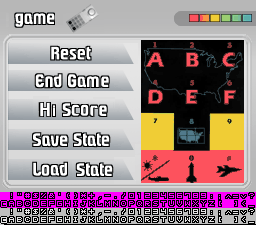
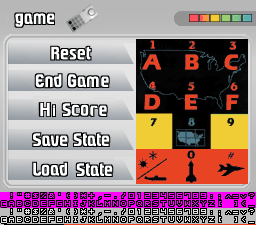
9.8a with Blackjack overlay added and improved Wargames overlay.

Changed region(s): [[0.5312, 0.1556, 0.9688, 0.84], [0.25, 0.9956, 1.0, 1.0]]

diff --git a/arm9/source/colecoDS.c b/arm9/source/colecoDS.c
@@ -55,6 +55,7 @@
 #include "quest.h"
 #include "hal2010.h"
 #include "shuttle.h"
+#include "blackjack.h"
 #include "utopia.h"
 #include "cvision.h"
 #include "fdc.h"
@@ -91,7 +92,7 @@ u8 RAM_Memory[0x10000]                ALIGN(32) = {0};        // RAM up to 128K 
 u8 BIOS_Memory[0x10000]               ALIGN(32) = {0};        // To hold our BIOS and related OS memory (64K as the BIOS  for various machines ends up in different spots)
 u8 SRAM_Memory[0x4000]                ALIGN(32) = {0};        // SRAM up to 16K for the few carts which use it (e.g. MSX Deep Dungeon II, Hydlide II, etc)
 
-u8 *DSI_RAM_Buffer = 0; // Used as a large 1MB buffer for ADAM expanded RAM. May have other uses in the future.
+u8 *DSI_RAM_Buffer = 0; // Used as a large 2MB buffer for ADAM expanded RAM. May have other uses in the future.
 u8 io_show_status = 0;  // Used to indicate a RD/WR status for various disk/tape activities
 
 // --------------------------------------------------------------------------
@@ -1009,7 +1010,7 @@ void DisplayStatusLine(bool bForce)
             switch (myConfig.msxBios)
             {
                 case 1: sprintf(tmp, "MSX      64K");    break;     // MSX generic ROM (64K mapped in slot 3)
-                case 2: sprintf(tmp, "CF-2700  64K");    break;     // Panasonic CF-2700 (64K mapped in slot 3)
+                case 2: sprintf(tmp, "CF-2700  64K");    break;     // Panasonic CF-2700 (64K mapped in slot 1)
                 case 3: sprintf(tmp, "CX5M     32K");    break;     // Yamaha CX5M (32K mapped in slot 0)
                 case 4: sprintf(tmp, "HX-10    64K");    break;     // Toshiba HX-10 (64K mapped in slot 2)
                 case 5: sprintf(tmp, "HB-10    16K");    break;     // Sony HB-10 (16K mapped in slot 0)
@@ -3832,6 +3833,14 @@ void BottomScreenKeypad(void)
       decompress(utopiaMap, (void*) bgGetMapPtr(bg0b),  LZ77Vram);
       dmaCopy((void*) bgGetMapPtr(bg0b)+32*30*2,(void*) bgGetMapPtr(bg1b),32*24*2);
       dmaCopy((void*) utopiaPal,(void*) BG_PALETTE_SUB,256*2);
+    }
+    else if (myConfig.overlay == 13)  // Blackjack
+    {
+      //  Init bottom screen
+      decompress(blackjackTiles, bgGetGfxPtr(bg0b),  LZ77Vram);
+      decompress(blackjackMap, (void*) bgGetMapPtr(bg0b),  LZ77Vram);
+      dmaCopy((void*) bgGetMapPtr(bg0b)+32*30*2,(void*) bgGetMapPtr(bg1b),32*24*2);
+      dmaCopy((void*) blackjackPal,(void*) BG_PALETTE_SUB,256*2);
     }
     else // Generic Overlay (overlay == 0)
     {

diff --git a/arm9/source/colecogeneric.c b/arm9/source/colecogeneric.c
@@ -1706,7 +1706,7 @@ const struct options_t Option_Table[3][20] =
 {
     // Page 1
     {
-        {"OVERLAY",        {"GENERIC", "FULL KEYBOARD", "ALPHA KEYBOARD", "WARGAMES", "MOUSETRAP", "GATEWAY", "SPY HUNTER", "FIX UP MIX UP", "BOULDER DASH", "QUINTA ROO", "2010", "SPACE SHUTTLE", "UTOPIA"}, &myConfig.overlay,    13},
+        {"OVERLAY",        {"GENERIC", "FULL KEYBOARD", "ALPHA KEYBOARD", "WARGAMES", "MOUSETRAP", "GATEWAY", "SPY HUNTER", "FIX UP MIX UP", "BOULDER DASH", "QUINTA ROO", "2010", "SPACE SHUTTLE", "UTOPIA", "BLACKJACK"}, &myConfig.overlay,    14},
         {"FRAME SKIP",     {"OFF", "SHOW 3/4", "SHOW 1/2"},                                                                                                                                     &myConfig.frameSkip,  3},
         {"FRAME BLEND",    {"OFF", "ON"},                                                                                                                                                       &myConfig.frameBlend, 2},
         {"VIDEO TYPE",     {"NTSC", "PAL"},                                                                                                                                                     &myConfig.isPAL,      2},
